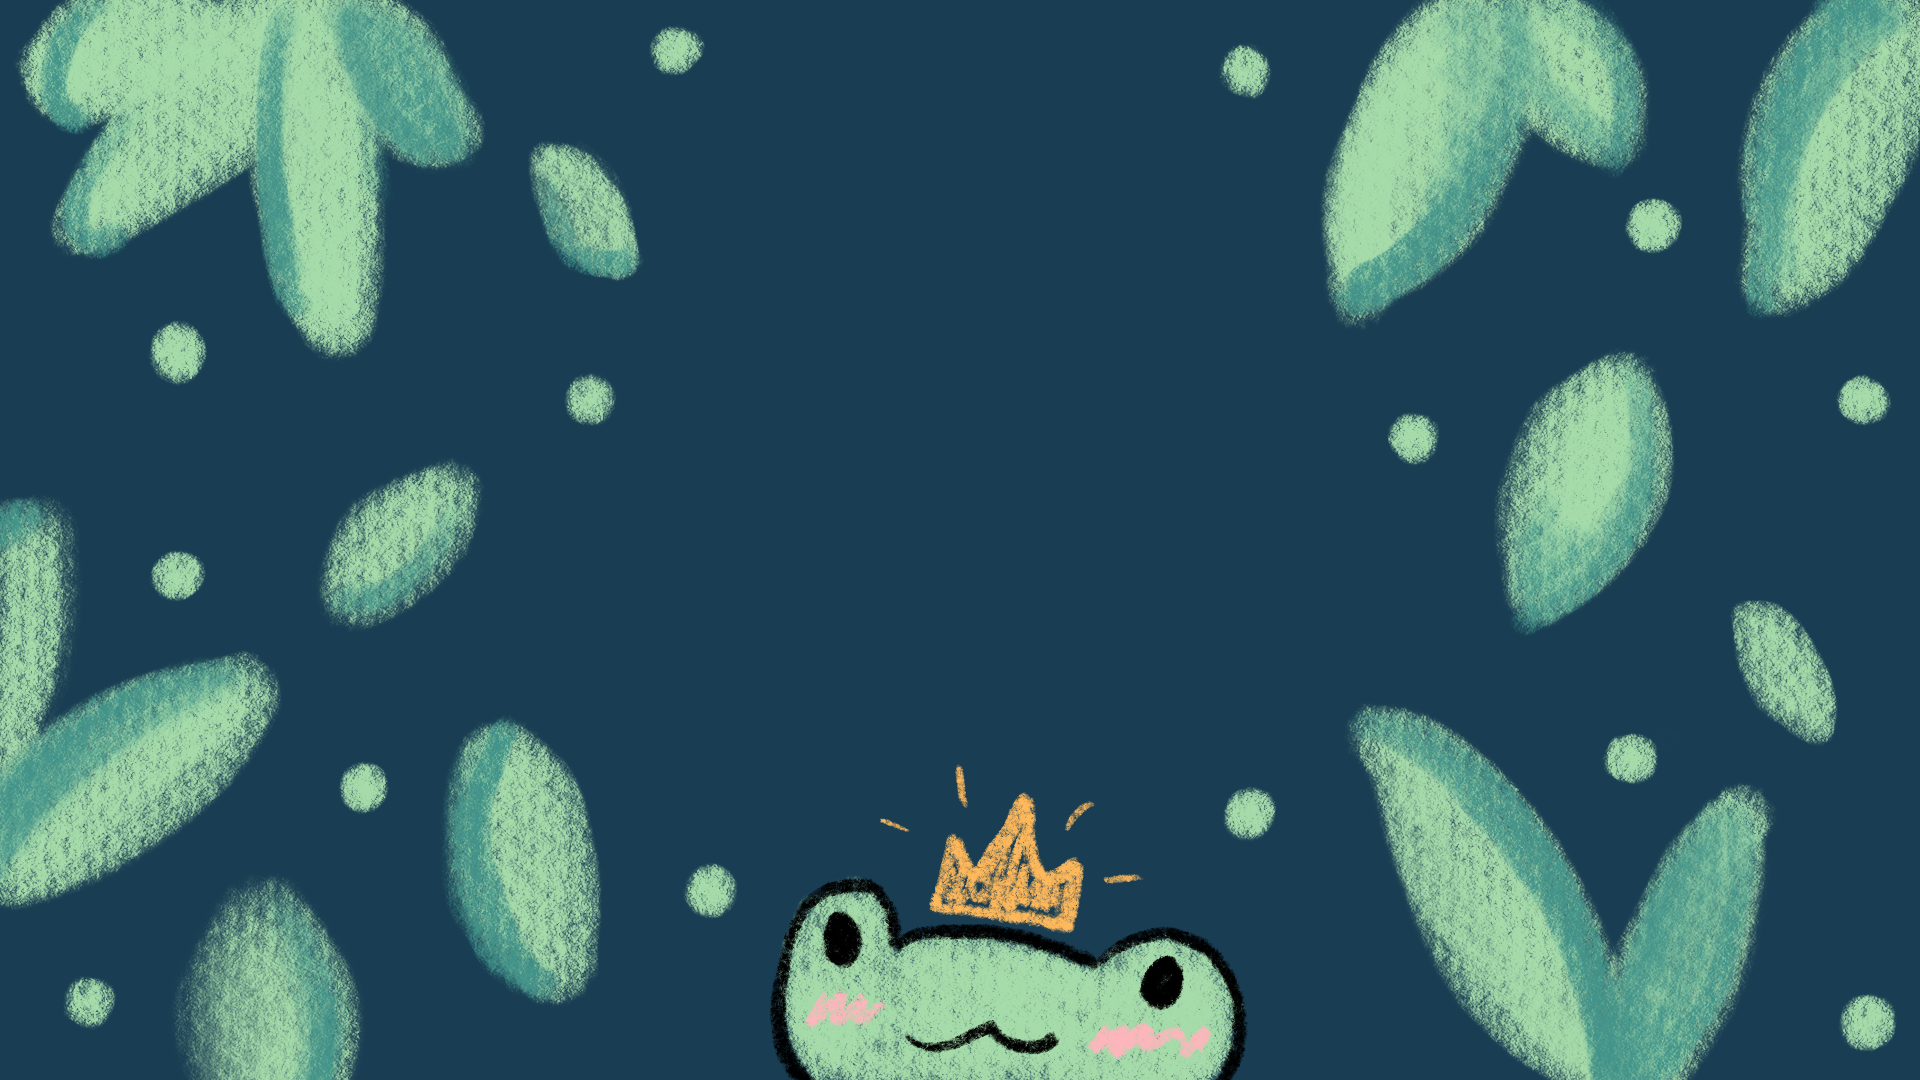
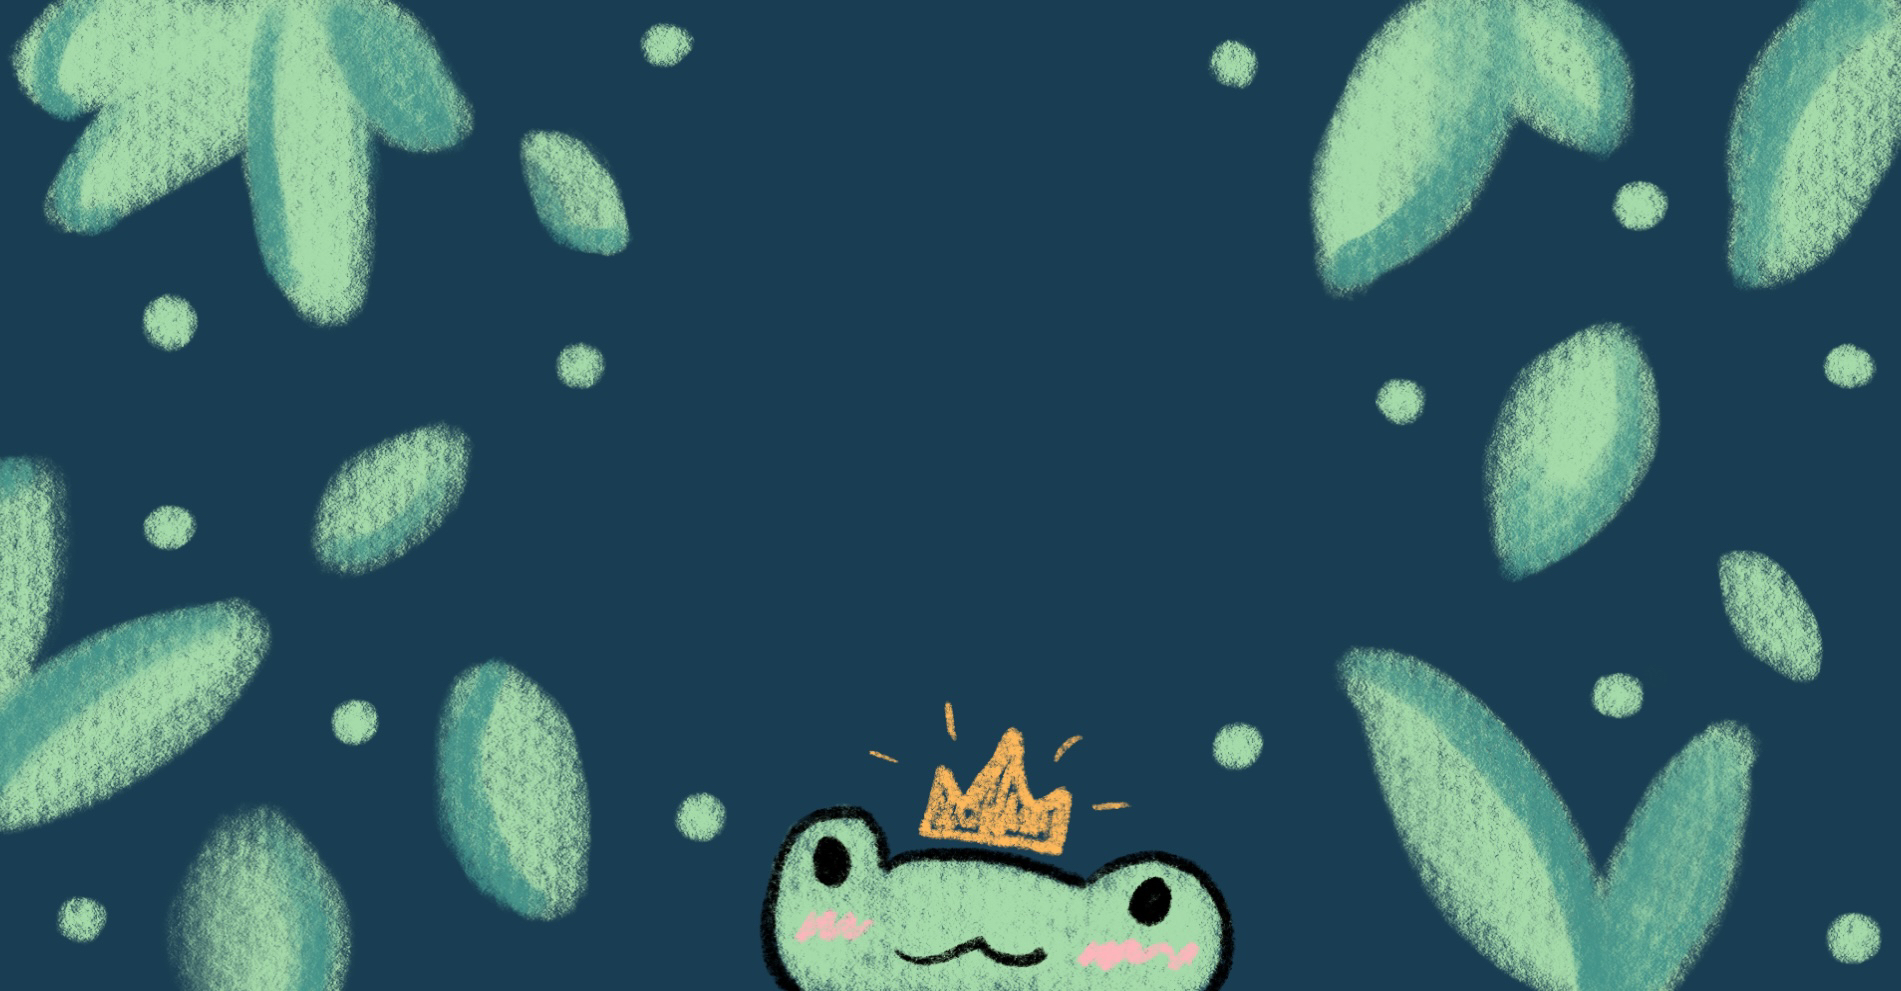
Changes on frontend

diff --git a/client/components/Navbar.jsx b/client/components/Navbar.jsx
@@ -9,21 +9,16 @@ import DropDown from './DropDown';
 import { IoIosNotifications } from "react-icons/io";
 import { websiteName } from '@/config';
 import { Button } from './ui/button';
-
 import { useUser } from '@auth0/nextjs-auth0/client';
 
-const Navbar = ( ) => {
+const Navbar = () => {
     const router = useRouter();
     const [showMenu, setShowMenu] = useState(false);
     const { user, error, isLoading } = useUser();
     const [userInfo, setUserInfo] = useState(null);
 
-
-    console.log("user Auth0 = ",user);
-
     const pathname = usePathname(); // Call usePathname unconditionally
     const [visible, setVisible] = useState(false);
-
 
     const isPrelaunch = pathname === '/prelaunch' || pathname === '/thankyou' || pathname === '/maintenance';
 
@@ -33,13 +28,8 @@ const Navbar = ( ) => {
                 let data;
                 if (user) {
                     console.log("NavBar User = ", user);
-                    // const response = await fetch(`/api/users/getUserByEmail/${user.email}`);
-                    // data = await response.json();
-                    // console.log("data = ",data);
-                    // 
 
                     const newUserData = {
-                        // sid: user.sid,
                         name: user.name,
                         username: user.nickname,
                         email: user.email
@@ -50,7 +40,6 @@ const Navbar = ( ) => {
                         body: JSON.stringify(newUserData),
                     });
                 } 
-                // setUserInfo(data);
             } catch (error) {
                 console.error('Error fetching user:', error);
             }
@@ -61,11 +50,14 @@ const Navbar = ( ) => {
 
     return (
         <div className={`fixed top-0 w-full px-10 navbar_md:px-52 py-3 flex items-center justify-between z-20 bg-white ${isPrelaunch && 'hidden'} shadow-md ${visible ? 'mt-12' : 'mt-0'}`}>
-            <div className={`flex items-center justify-between w-full ${user ? 'sm:w-[500px]' : 'sm:w-96'}`}>
-                <div className='flex cursor-pointer hover:opacity-90' onClick={() => router.push(`${session ? '/explore': '/landing'}`)}>
+            <div className='flex items-center'>
+                <div className='flex cursor-pointer hover:opacity-90' onClick={() => router.push('/landing')}>
                     <Image src={logo} width={35} className='mr-1' alt='logo' />
                     <h1 className='font-extrabold text-3xl'>{websiteName}</h1>
                 </div>
+                <Link href="/about" className='ml-6 text-2xl font-extrabold text-gray-700 hover:underline'>About</Link>
+            </div>
+            <div className={`flex items-center justify-between ${user ? 'sm:w-[500px]' : 'sm:w-96'}`}>
                 {user && (
                     <Link href="/explore" className='hover:underline sm:flex hidden'>Let's Goo!</Link>
                 )}
@@ -73,26 +65,24 @@ const Navbar = ( ) => {
                     <DropDown showMenu={showMenu} setShowMenu={setShowMenu} />
                 </div>
             </div>
-            {!user ? (
-                <div className='sm:flex hidden items-end w-44 justify-between font-semibold'>
+            <div className='sm:flex hidden items-end w-44 justify-between font-semibold'>
+                {!user ? (
                     <Button onClick={() => router.push('/api/auth/login')} variant="ghost">
                         Login
                     </Button>
-                </div>
-            ) : (
-                <div className='sm:flex hidden items-end justify-between'>
-                    <Button onClick={() => router.push('/api/auth/logout')} variant="ghost">
-                        Logout
-                    </Button>
-                    {user && (
+                ) : (
+                    <>
+                        <Button onClick={() => router.push('/api/auth/logout')} variant="ghost">
+                            Logout
+                        </Button>
                         <div className='flex items-center ml-6'>
                             {console.log("MongoDB userInfo = ", userInfo)}
                             <div><IoIosNotifications size={30} className='cursor-pointer hover:opacity-50' onClick={() => router.push('/pendingConnects')} /></div>
                             <img onClick={() => router.push('/profile')} className='w-10 h-[2.5rem] rounded-full object-cover ml-9 border border-black cursor-pointer hover:opacity-50' src={user.picture} />
                         </div>
-                    )}
-                </div>
-            )}
+                    </>
+                )}
+            </div>
             <div className='h-screen w-full absolute z-0 sm:hidden' onClick={() => setShowMenu(false)}></div>
         </div>
     )

diff --git a/client/app/about/page.jsx b/client/app/about/page.jsx
@@ -8,7 +8,10 @@ import { useInView } from 'react-intersection-observer';
 const Page = () => {
     return (
         <>
-            <div className='h-full-minus-navbar mt-[66px] text-center sm:mx-32 mx-10'>
+            <div 
+                className='h-full-minus-navbar mt-[66px] text-center sm:mx-32 mx-10'
+                style={{ backgroundImage: "url('/frog_background.png')", backgroundPosition: 'center bottom', backgroundRepeat: 'no-repeat', backgroundSize: 'cover' }}
+            >
                 <div className='flex justify-center items-center h-[70%]'>
                     <div className='w-full'>
                         <div className='w-full flex justify-center items-center flex-col'>
@@ -18,7 +21,7 @@ const Page = () => {
                                 animate={{ opacity: 1, y: 0 }}
                                 transition={{ duration: 1 }}
                             >
-                                About Klink
+                                Say Hello to your study bestie FroggyFlow!
                             </motion.h1>
                             <motion.p
                                 className="text-xl text-gray-600 mt-8"
@@ -26,7 +29,10 @@ const Page = () => {
                                 animate={{ opacity: 1, y: 0 }}
                                 transition={{ duration: 1, delay: 1 }}
                             >
-                                {websiteName} is a platform created by creators for creators. {websiteName} is expanding to reach all content creators around the world!
+                                FroggyFlow is a study buddy for you to get stuff done!
+                                FroggyFlow will make sure you maintain the most ergonomic posture when studying or working and remind you to take breaks!
+                                It is recommended that you take breaks every 30 minutes in order to stay productive. Make sure to move around too!
+                                During your rest time you can play some active games with Froggy!
                             </motion.p>
                         </div>
                     </div>
@@ -34,7 +40,6 @@ const Page = () => {
             </div>
             <Footer />
         </>
-
     )
 }
 

diff --git a/client/app/study-session/page.jsx b/client/app/study-session/page.jsx
@@ -13,7 +13,7 @@ const Page = () => {
 
     const handleButtonClick = () => {
         // Add your navigation or action logic here
-        router.push('/study-session');
+        router.push('/profile');
     }
 
     return (
@@ -29,9 +29,7 @@ const Page = () => {
                         animate={{ opacity: 1, y: 0 }}
                         transition={{ duration: 1 }}
                     >
-                        <span style={{ color: '#ffff66' }}>Hop, </span>
-                        <span style={{ color: '#029588 ' }}>Hopping, </span>
-                        <span style={{ color: '#94DEA5' }}>With the Flowww...</span>
+                        <span style={{ color: '#ffff66' }}>INSERT TIMER HERE </span>
                     </motion.h1>
                     <motion.p
                         className="text-xl text-white mt-8 font-bp"
@@ -39,7 +37,7 @@ const Page = () => {
                         animate={{ opacity: 1, y: 0 }}
                         transition={{ duration: 1, delay: 0.5 }}
                     >
-                        Optimize your study session!
+                        You'll be reminded to take breaks every 30 minutes!
                     </motion.p>
                     <motion.button
                         className="mt-8 px-6 py-3 text-lg font-semibold text-sky-950 bg-green-300 rounded-md shadow-lg hover:bg-teal-600 focus:outline-none focus:ring-2 focus:ring-green-500 focus:ring-opacity-50 animate-bounce"
@@ -48,7 +46,7 @@ const Page = () => {
                         animate={{ opacity: 1, y: 0 }}
                         transition={{ duration: 1, delay: 1 }}
                     >
-                        Hop into your study room
+                        End session
                     </motion.button>
                 </div>
             </div>

diff --git a/client/config.js b/client/config.js
@@ -1,1 +1,1 @@
-export const websiteName = "Froggy Flow";
+export const websiteName = "FroggyFlow";

diff --git a/server/model_training.py b/server/model_training.py
@@ -33,14 +33,14 @@ good_df['label'] = 'good'
 
 #Combine data into one
 combined_data = pd.concat([bad_df, good_df], ignore_index=True)
-combined_data['time_delta'] = combined_data['time'].diff().fillna(0)
-window_size = 1000  #ms
-combined_data['rolling_mean'] = combined_data['time'].rolling(window=window_size).mean()
+# combined_data['time_delta'] = combined_data['time'].diff().fillna(0)
+# window_size = 1000  #ms
+# combined_data['rolling_mean'] = combined_data['time'].rolling(window=window_size).mean()
 
-print(combined_data.head())
-print(combined_data.tail())
+# print(combined_data.head())
+# print(combined_data.tail())
 
-combined_data['time_delta'] = combined_data['time'].diff().fillna(0)
+# combined_data['time_delta'] = combined_data['time'].diff().fillna(0)
 
 X = combined_data.drop('label', axis=1) 
 y = combined_data['label']
@@ -70,3 +70,9 @@ def predict_new_data(new_data):
     predictions = model.predict(new_data)
     scores = model.predict_proba(new_data)
     return predictions
+
+
+#For testing purposes
+columns = ['ax', 'ay', 'az', 'gx', 'gy', 'gz', 'time']
+new_data= pd.DataFrame([[-0.84, -0.21, 0.50, -0.92, -0.06, -0.92, 100]], columns=columns)
+print(predict_new_data(new_data))
